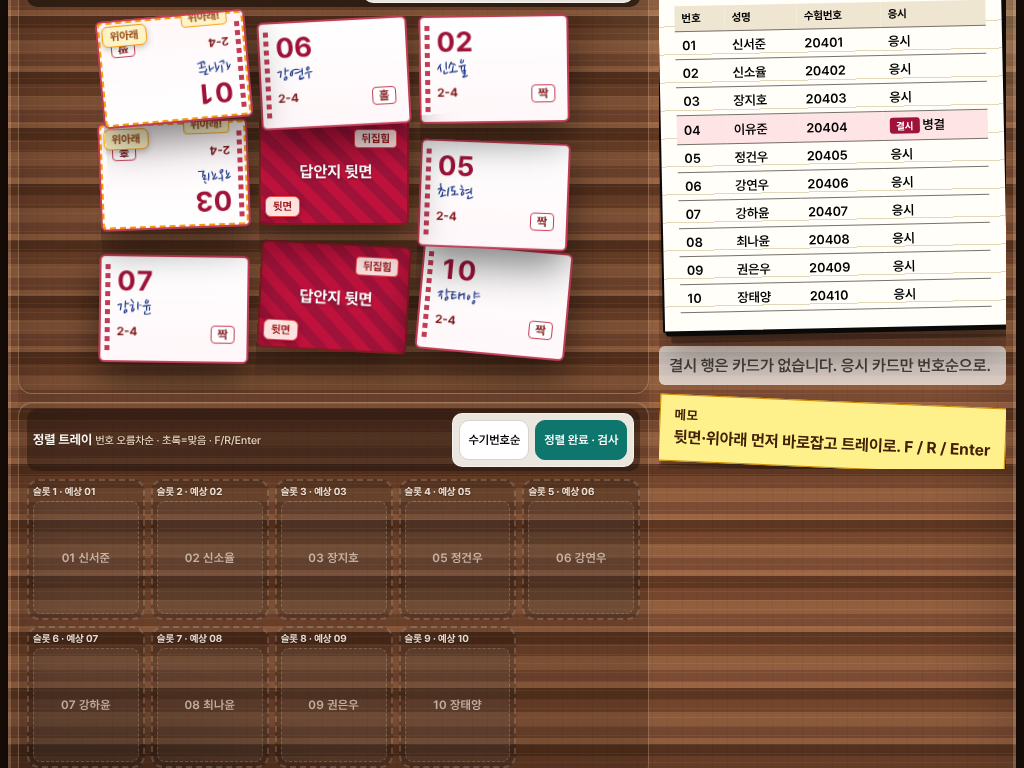
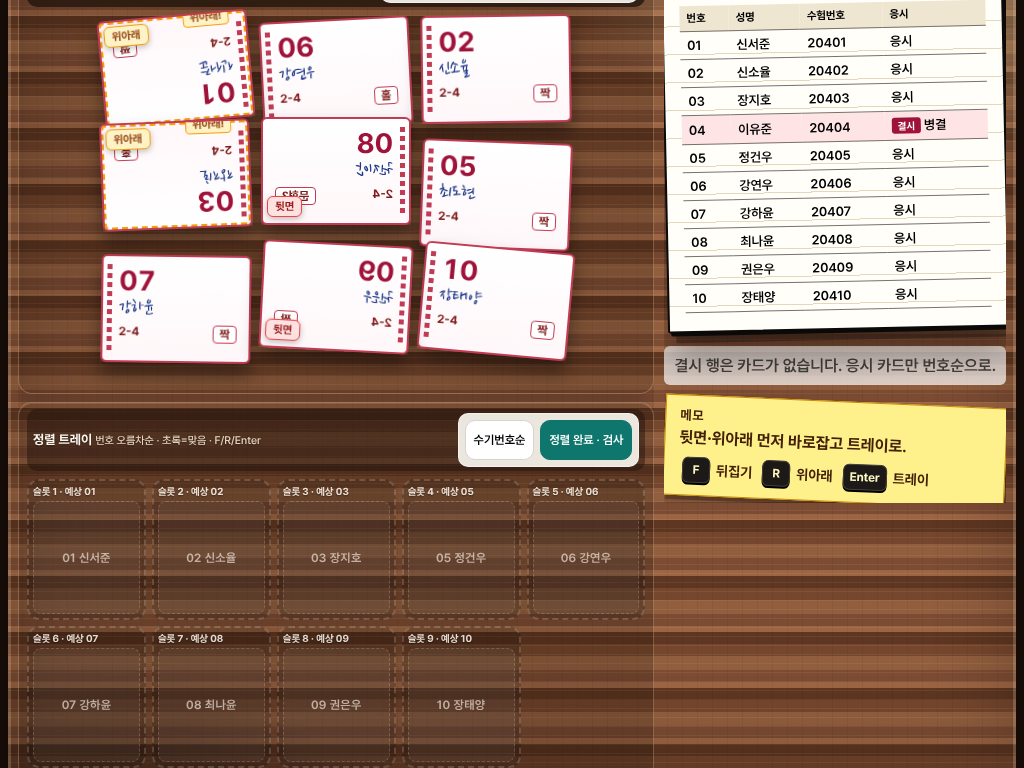
Round 0036: restore pile card click hit-testing
Drop filter/3D tilt that made pointer events miss cards,
and harden e2e selection before moving cards to the tray.

diff --git a/src/style.css b/src/style.css
@@ -1248,3 +1248,25 @@ kbd {
   border-radius: 4px;
   margin-left: 2px;
 }
+
+/* 0036 fix pile card hit-testing (filter+3d ate clicks) */
+.pile-area {
+  transform-style: flat !important;
+  perspective: none !important;
+}
+.pile-card {
+  filter: none !important;
+  box-shadow: 0 12px 18px rgba(0,0,0,0.4);
+  transform: translateY(calc(-1 * var(--lift, 0px))) rotate(var(--r)) !important;
+}
+.pile-card.selected {
+  filter: none !important;
+  box-shadow: 0 18px 28px rgba(0,0,0,0.5);
+  transform: translateY(calc(-1 * var(--lift, 0px) - 8px)) rotate(var(--r)) scale(1.05) !important;
+}
+.pile-card .desk-thumb,
+.pile-card .desk-thumb-inner,
+.pile-card .card-3d-inner {
+  /* keep face flip, but avoid preserve-3d parent issues */
+  transform-style: flat;
+}

diff --git a/docs/issues/0036-pile-hit-testing.md b/docs/issues/0036-pile-hit-testing.md
@@ -1,0 +1,11 @@
+# 0036 Pile card hit-testing
+
+## Critique
+Real mouse clicks on pile cards hit `.pile-area` instead — `filter: drop-shadow` + 3D tilt broke pointer hit regions; e2e `#btn-to-tray` stayed disabled.
+
+## Fix
+- Flatten pile-area; replace card `filter` with `box-shadow`; drop rotateX tilt
+- e2e selects via `dispatchEvent('click')` and waits for enabled tray button
+
+## Verify
+Mouse select works · e2e OK · viewport OK

diff --git a/docs/ROUNDLOG.md b/docs/ROUNDLOG.md
@@ -34,3 +34,6 @@
 
 ## Round 0035 (01:53 KST)
 - Sticky kbd legend chips
+
+## Round 0036 (01:55 KST)
+- Fix pile card pointer hit-testing; harden e2e select
